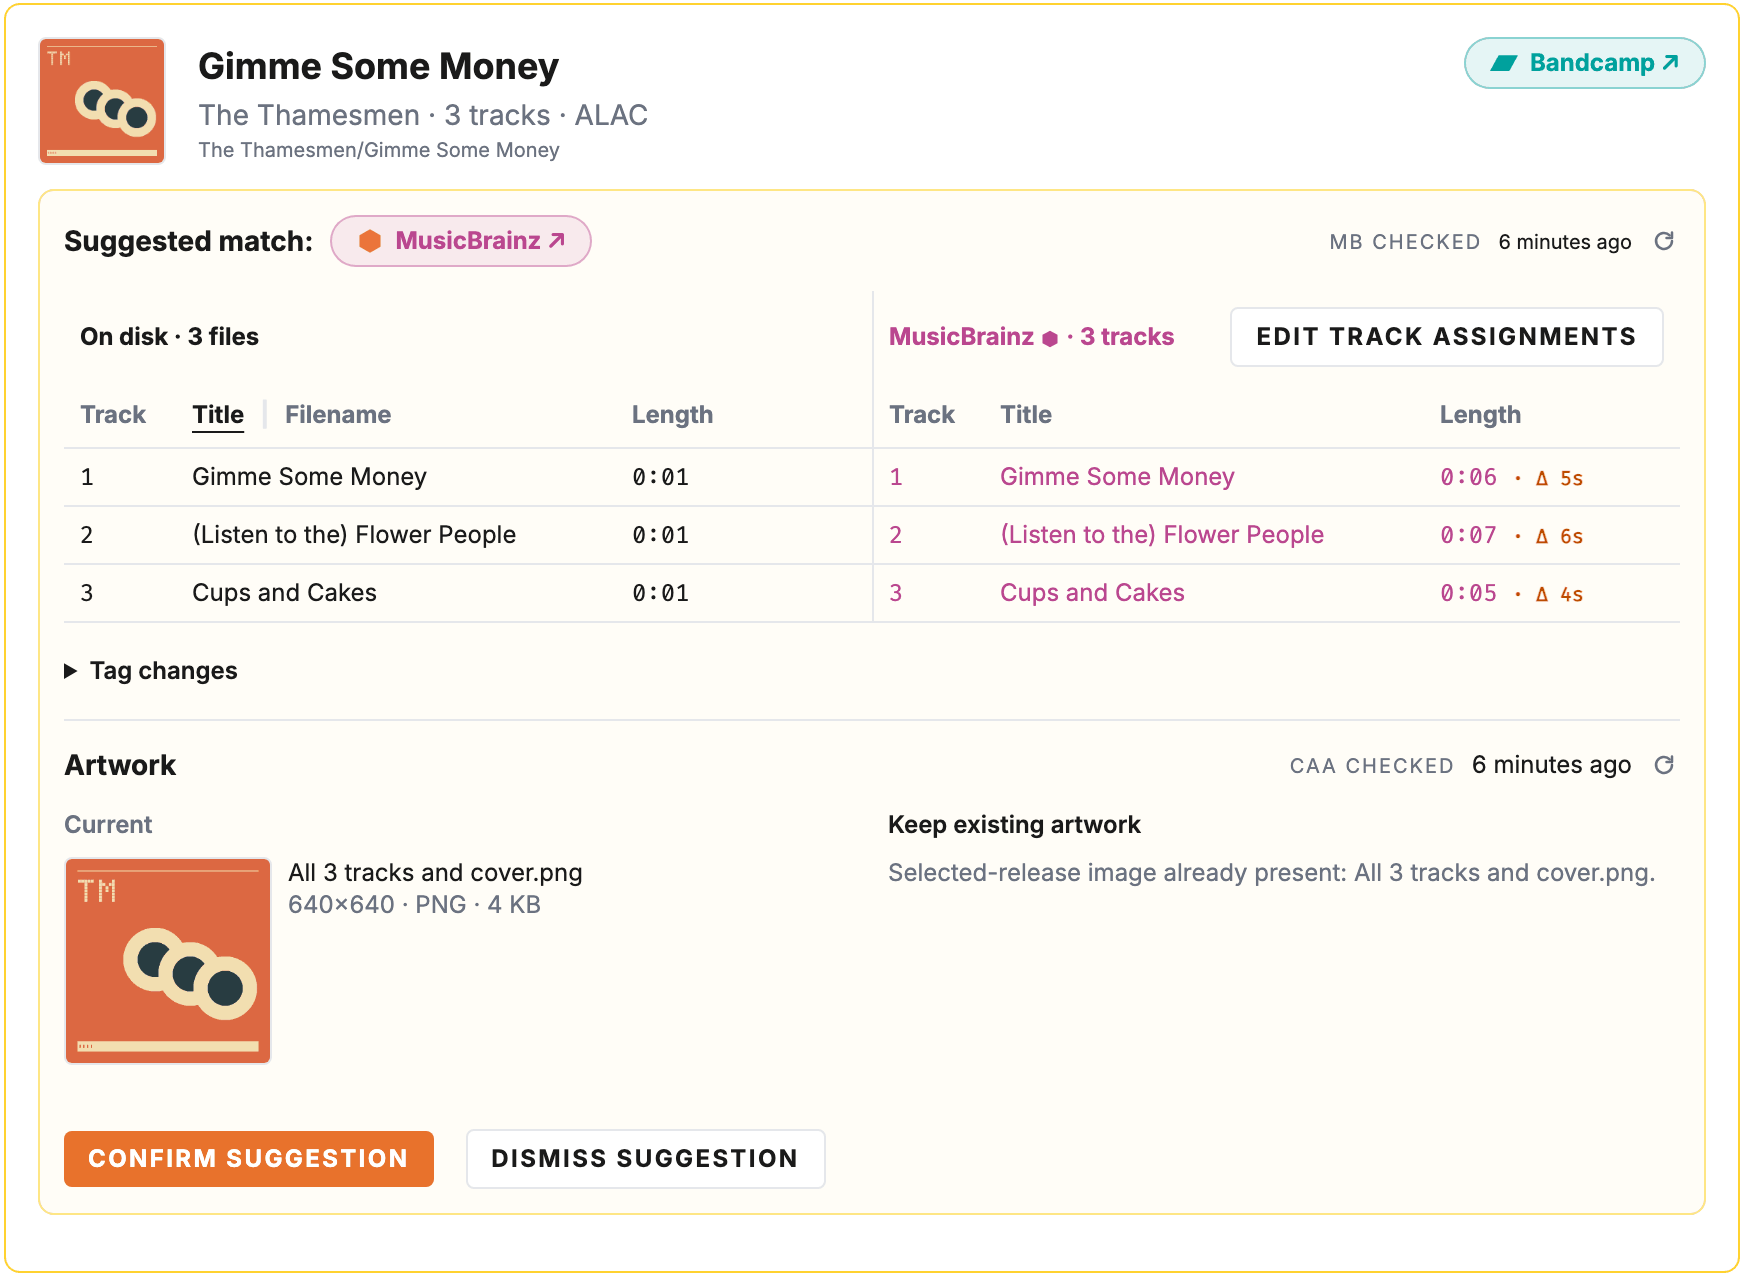
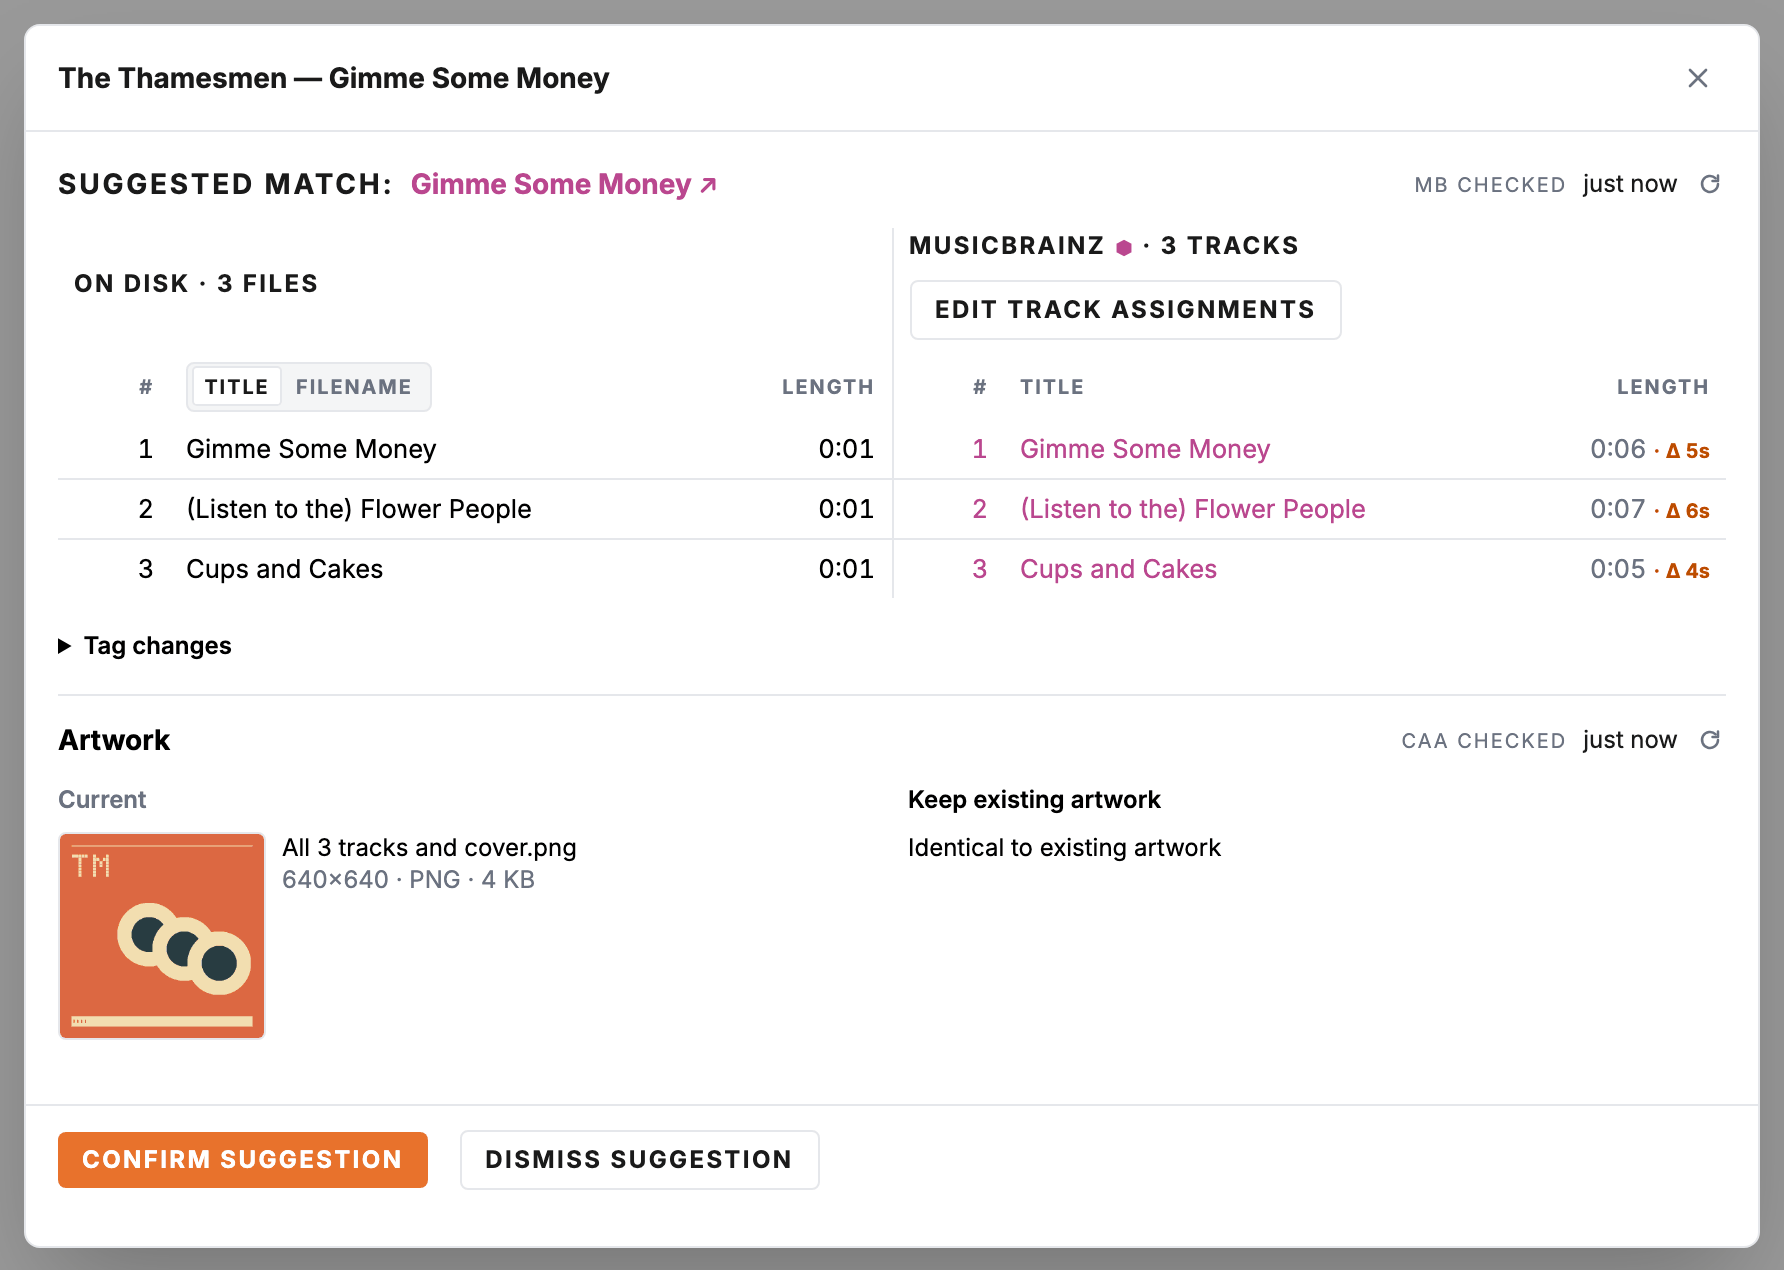
Show the Review dialog and the release row's Review in the docs
suggested-match.png is now the Review dialog a suggestion opens in, and
release-search.png the store-URL result with its Review button, both
captured from demo mode at 2x and reduced to 256-colour PNGs. The alt
text quotes their new wording.

diff --git a/docs/getting-started.md b/docs/getting-started.md
@@ -74,11 +74,12 @@ Albums in **New** and **Needs MBID** are waiting for a release. Each one either
 has a suggested match, to check against the side-by-side tracklist and confirm,
 or can be searched for on MusicBrainz by name, barcode or store URL.
 
-![A Needs MBID card for "Gimme Some Money" by The Thamesmen. Under "Suggested
-match", the three files on disk sit beside the three MusicBrainz tracks, with
-matching titles; each MusicBrainz length differs from the file's by a few
-seconds ("Δ 5s"). Below are "Tag changes", the artwork ("Keep existing
-artwork"), and Confirm suggestion and Dismiss suggestion
+![The Review dialog for "The Thamesmen — Gimme Some Money". Under "Suggested
+match: Gimme Some Money", the three files on disk sit beside the three
+MusicBrainz tracks, with matching titles; each MusicBrainz length differs from
+the file's by a few seconds ("Δ 5s"), and an Edit track assignments button sits
+above them. Below are "Tag changes", the artwork ("Keep existing artwork",
+"Identical to existing artwork"), and Confirm suggestion and Dismiss suggestion
 buttons.](images/suggested-match.png)
 
 A release missing from MusicBrainz can be added with **Open in Harmony**, after

diff --git a/docs/troubleshooting.md b/docs/troubleshooting.md
@@ -120,7 +120,7 @@ Harmonist couldn't find the release on its own. On the album's card:
 ![An album card with "Find release:" options By name, By barcode (greyed out),
 Store URL (selected) and By MBID, showing the album's Bandcamp URL and a Search
 button. Below, the release the store URL is linked from, marked "Store URL
-matches", with a Use button.](images/release-search.png)
+matches", with a Review button.](images/release-search.png)
 
 ### Harmonist suggested a release but didn't tag it
 
